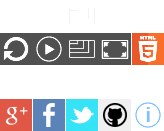
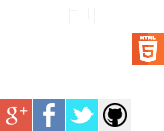
button styles, address bar edits for proper http, https, ftp protocol additions.

Changed region(s): [[0.0, 0.2443, 0.8232, 0.5191], [0.8232, 0.7634, 1.0, 0.9771]]

diff --git a/css/core.css b/css/core.css
@@ -68,25 +68,25 @@ header .button#go {
   background-position: -33px 0;
 }
 header .button#go:hover {
-  background-position: -33px -33px;
+  background-color: #505050;
 }
 header .button#fullscreen {
   background-position: -99px 0;
 }
 header .button#fullscreen:hover {
-  background-position: -99px -33px;
+  background-color: #505050;
 }
 header .button#swap {
   background-position: 0 0;
 }
 header .button#swap:hover {
-  background-position: 0 -33px;
+  background-color: #505050;
 }
 header .button#presets {
   background-position: -66px 0;
 }
 header .button#presets:hover {
-  background-position: -66px -33px;
+  background-color: #505050;
 }
 header select {
   height: 30px;
@@ -118,7 +118,7 @@ header > div.panel > div#info {
   background-position: -132px -66px;
 }
 header > div.panel > div#info:hover {
-  background-position: -132px -99px;
+  background-color: #505050;
 }
 header > div.panel > a.git {
   background-position: -99px -66px;

diff --git a/js/core.js b/js/core.js
@@ -154,10 +154,18 @@ $(function() {
   };
 
   $('#url').change(function() {
+    app.dom.iframe.attr('src', '');
+
     var url = $(this).val();
-    if (url.substr(0, 4) != 'http' || url.substr(0, 3) != 'ftp') {
-      url = 'http://' + url;
+    if (url.substr(0, 7) != 'http://' && 
+        url.substr(0, 8) != 'https://' &&
+        url.substr(0, 6) != 'ftp://' &&
+        url.substr(0, 7) != 'file://') {
+
+      url = "http://" + url;
+      $(this).val(url);
     }
+
     app.dom.iframe.animate({ 'opacity': 0 }, { duration: 200, queue: false });
     app.dom.iframe.attr('src', url);
   });
